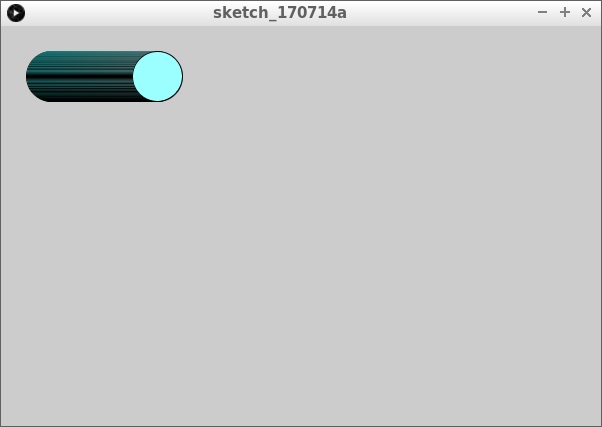
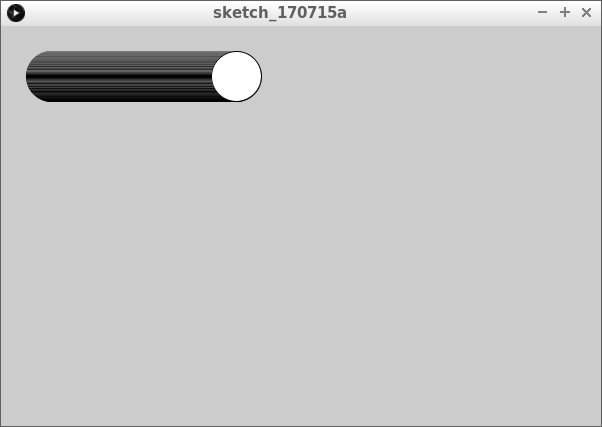
Bal eeuwig naar rechts is gaaf

Changed region(s): [[0.0299, 0.1218, 0.4485, 0.2436], [0.5382, 0.0, 0.5681, 0.0609]]

diff --git a/LessenProcessing/BalEeuwigNaarRechts/README.md b/LessenProcessing/BalEeuwigNaarRechts/README.md
@@ -9,7 +9,7 @@ Je kunt (bijna) niet programmeren zonder `if`-statements.
 
 ![Verkleurende bal naar rechts](BalEeuwigNaarRechtsIntro.png)
 
-Dit is een verkleurende bal die naar rechts gaat:
+Dit is een bal die naar rechts gaat:
 
 ```c++
 float x = 50;
@@ -22,14 +22,14 @@ void setup()
 void draw()
 {
   ellipse(x, 50, 50, 50);
-  fill(x, 255, 255);
   x = x + 1;
 }
 ```
 
 Nadeel: de bal komt nooit meer terug in het scherm.
 
-We willen kunnen zeggen: 'Lieve computer, *als* de bal te ver naar rechts is, dan teleporteer je de bal naar rechts'. `if` is Engels voor 'als'.
+We willen kunnen zeggen: 'Lieve computer, *als* de bal te ver naar rechts is, 
+dan teleporteer je de bal naar rechts'. `if` is Engels voor 'als'.
 
 Zo zou dit kunnen:
 
@@ -41,6 +41,8 @@ if (x > 200)
 ```
 
 Het tekentje `>` betekent 'groter dan'. Preciezer zeg je: 'Lieve computer, *als* x meer is dan 200, zet x dat op 100'. `if` is Engels voor 'als'.
+
+![Een `if`](BalEeuwigNaarRechtsIf.png)
 
 ![Computer](EmojiComputer.png) | ![Smiley](EmojiSmiley.png)
 :-------------:|:----------------------------------------: 
@@ -182,7 +184,7 @@ void setup()
 
 void draw()
 {
-  ellipse(x,50,100,100);
+  ellipse(x, 50, 100, 100);
   x = x - 1;
   if (x < -50)
   {
@@ -194,6 +196,9 @@ void draw()
 ![Computer](EmojiComputer.png) | ![Smiley](EmojiSmiley.png)
 :-------------:|:----------------------------------------: 
 `x = x - 1`|'Lieve computer, maak `x` een lager.'
+`x -= 1`|'Lieve computer, maak `x` een lager.'
+`x--`|'Lieve computer, maak `x` een lager.'
+`--x`|'Lieve computer, maak `x` een lager.'
 
 
 ## Bal die eeuwig omlaag gaat
@@ -204,11 +209,13 @@ te veranderen.
 
 ## Opdracht 5
 
+![Opdracht 5](BalEeuwigNaarRechts5.png)
+
 Schrijf een programma waarin een bal eeuwig omlaag gaat:
 
  * maak het scherm 300 pixels breed en 200 pixels hoog
  * gebruik een variable met naam `y`
- * vervang de code `ellipse(x,50,100,00)` door `elllipse(50,y,100,100)`
+ * vervang de code `ellipse(x, 50, 100, 100)` door `elllipse(50, y, 100, 100)`
  * als de bal omlaag uit het scherm gaat, moet de bal weer bovenin komen
 
 ## Oplossing 5
@@ -242,12 +249,14 @@ Als we code samenvoegen, gelden de volgende regels:
  * alles wat binnen de `setup` functie staat, moet binnen de `setup` functie blijven
  * alles wat binnen de `draw` functie staat, moet binnen de `draw` functie blijven
 
-## Opdracht 
+## Opdracht 6
+
+![Opdracht 6](BalEeuwigNaarRechts6.png)
 
  * Voeg de code van 'Bal die eeuwig naar rechts gaat' samen met 'Bal die eeuwig omlaag gaat'
  * Verander de code zo dat de bal schuin gaat
 
-## Oplossing
+## Oplossing 6
 
 ```c++
 float x = -50;
@@ -275,5 +284,7 @@ void draw()
 ```
 
 ## Eindopdracht
+
+![Eindopdracht `Bal Eeuwig Naar Rechts`](BalEeuwigNaarRechtsEindopdracht.png)
 
 Laat de bal nu eeuwig schuin naar linksonder gaan.

diff --git a/LessenProcessing/BalNaarRechts/README.md b/LessenProcessing/BalNaarRechts/README.md
@@ -121,6 +121,9 @@ void draw()
 ![Computer](EmojiComputer.png) | ![Smiley](EmojiSmiley.png)
 :-------------:|:----------------------------------------: 
 `x = x + 1;`|'Lieve computer, maak `x` een hoger.'
+`x += 1;`|'Lieve computer, maak `x` een hoger.'
+`x++;`|'Lieve computer, maak `x` een hoger.'
+`++x;`|'Lieve computer, maak `x` een hoger.'
 
 ## Opdracht 4
 
